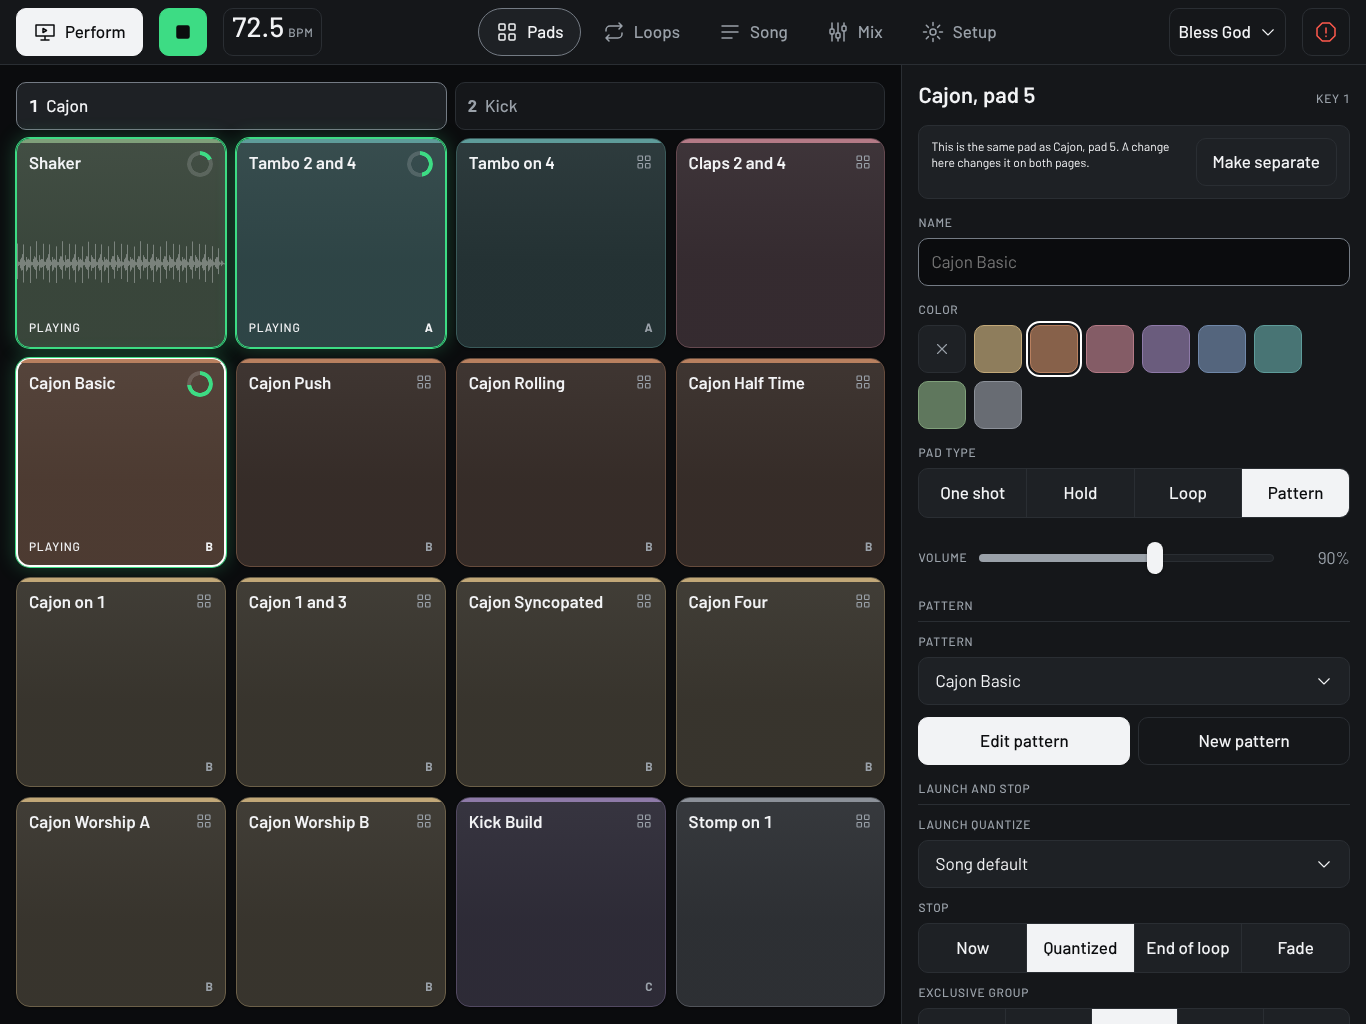
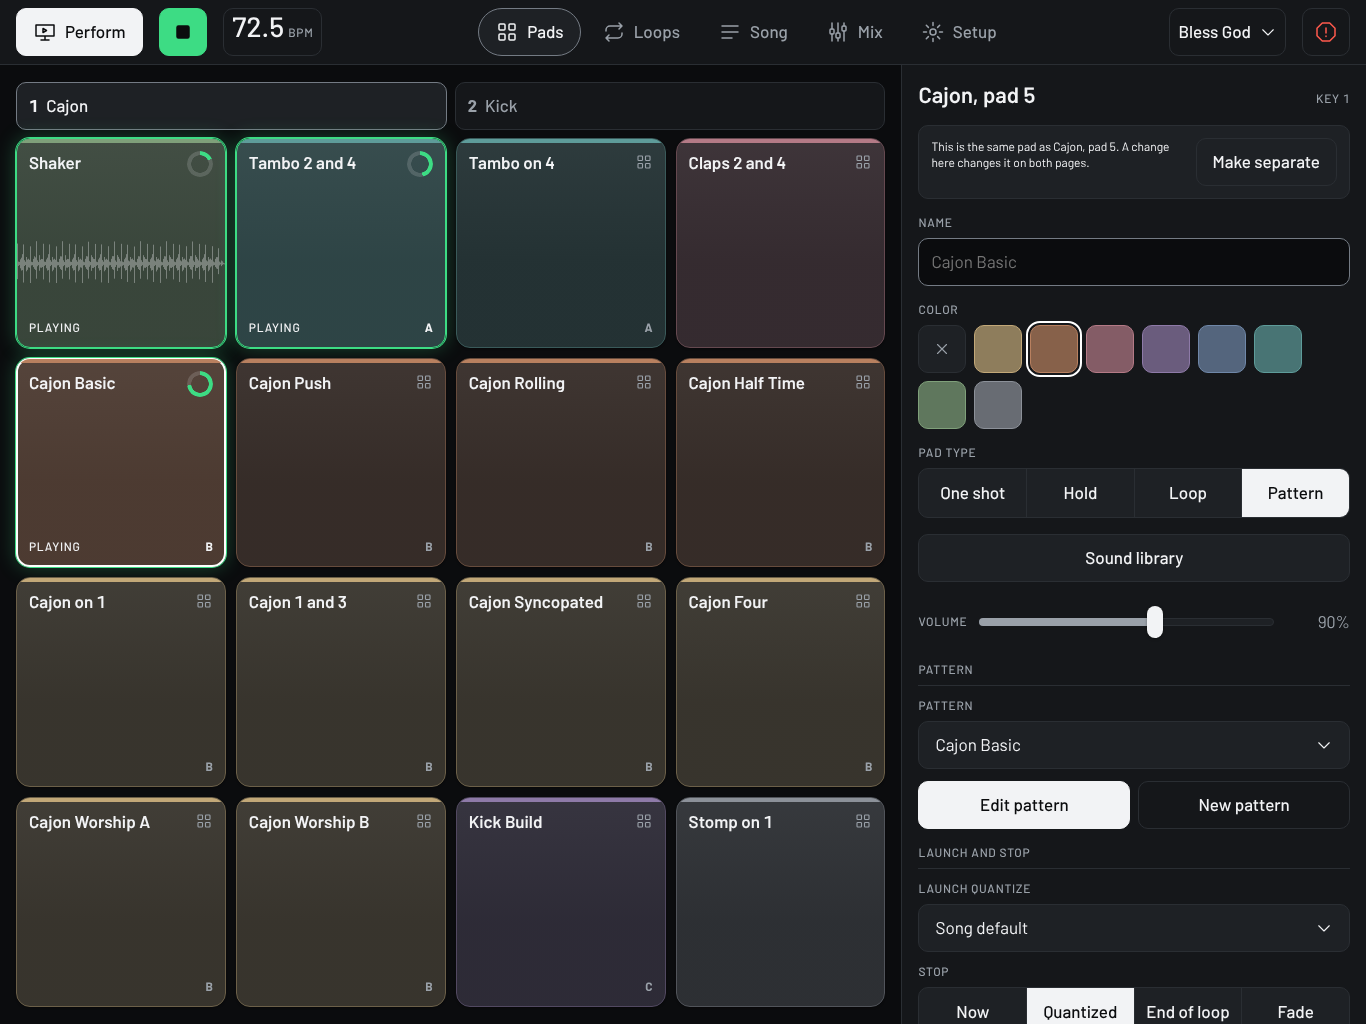
Docs and screenshots for the sound library and the count-in
Decisions 112 to 122, the hardware checklist for the library and the
count-in, and how the private sounds repository is used.

Claude-Session: https://claude.ai/code/session_01DwZbRpd19xrR4seYx22LVa

diff --git a/PROGRESS.md b/PROGRESS.md
@@ -7,7 +7,7 @@ Branch: `v3` (from `live-rig`). Never push to `main`. `live-rig` is the gig buil
 | Phase | What | State |
 | --- | --- | --- |
 | 1. Structure | Perform and Edit modes, five Edit destinations, scenes, layouts for iPad, folding phone and phone | Done on `v3`. Not yet played on a device. |
-| 2. Sound | Effects (reverb, delay, tape), sample library browser, the new sample content | Not started |
+| 2. Sound | Sample library and its browser, spoken count-in, private home for the sounds. Then effects (reverb, delay, tape) | Library, browser and count-in done on `v3`. Effects not started. |
 | 3. Ship | TestFlight internal build for iPad, iPhone and the folding iPhone | Not started. Needs Xcode. |
 | Track 0 | First compile of the iOS app on the Mac | Blocked: the Mac needs macOS 26.6 or newer and about 60 GB free for Xcode 27.1 |
 
@@ -19,6 +19,14 @@ Phase 1, in short (decisions 92 to 111):
 - Layout picked from the window size: iPad both ways, Split View, a folding phone opened both ways, phones both ways.
 - Pads light while sounding and show loop position as a ring. Barlow in every build.
 - Preview at `/v3/` once the `github-pages` environment allows the branch `v3`.
+
+Phase 2 so far (decisions 112 to 122):
+
+- A private repository, `Faith-Promise-Church/pad16-sounds`, is the home of every sound: the five kit folders and a library of 350 files in 15 categories (cajon, shaker, tambourine, hand drums, Latin percussion, kicks, snares, claps and snaps, hats and cymbals, toms, drum machines, lo-fi, transitions, clicks, the spoken count-in).
+- The build copies the sounds in when the sounds repository sits beside this one, so the iOS app carries them. The web version reads them with an access key entered once in Edit, Setup, Sounds, and keeps what it fetches.
+- Sound library browser on every pad and in every pattern track: categories, search, hear, use. Loops arrive with tempo and length.
+- Spoken count-in over the click, with a switch per song.
+- Still to do in this phase: effects, and the content rows still open (brush sounds and grooves, conga and bongo patterns, 6/8 shaker and tambourine, 808 snare, rim and cowbell, djembe bass, vinyl crackle).
 
 ## Earlier work (the live rig)
 
@@ -63,10 +71,13 @@ Phase 1, in short (decisions 92 to 111):
 
 ## Not verified here
 
-- Version 3 on any real device. Everything in it was built and checked in desktop Chrome at each device's point size. Touch feel, fader length under a thumb, legibility under stage light and the safe areas are for the iPad and the phone: see section 8 of `docs/HARDWARE_TEST.md`.
+- Version 3 on any real device. Everything in it was built and checked in desktop Chrome at each device's point size. Touch feel, fader length under a thumb, legibility under stage light and the safe areas are for the iPad and the phone: see section 9 of `docs/HARDWARE_TEST.md`.
 - The folding iPhone layout. Its sizes are Apple's published points; it needs the iOS build made with the SDK that knows the device.
 - The starter scenes are a guess (decision 98).
 - The iOS app has never been compiled. Xcode is not installed on the Mac. `HostClock.swift`, `MidiEngine.swift`, `BleReconnector.swift` and `CueClick.swift` type-check against the macOS SDK; `AudioSessionController.swift` and `Pad16NativePlugin.swift` could not be checked.
+- The library by ear. Every loop tempo, one shot name and pick was made by measurement (decision 122).
+- The spoken count-in on a real device, and in the iOS app when the click is sent to the cue route natively: the words go to the web click bus, which has not been checked against that route.
+- The access key against the real private repository. The browser tests use a stand-in that answers the way GitHub does.
 - Everything in `docs/HARDWARE_TEST.md`.
 - Signalsmith Stretch on a real iPad. It now runs in a Worker and is tested in Playwright's WebKit (the engine Safari uses), which is where it failed before. How it sounds on the shaker at 66 and 68 BPM (15 to 18 percent slower) is for ears.
 - How the 6/8 shaker pattern and the 6/8 cajon loops sound. They were built by measurement.
@@ -82,7 +93,9 @@ Phase 1, in short (decisions 92 to 111):
 ## Exact next step
 
 1. Allow the preview: GitHub, Settings, Environments, github-pages, Deployment branches and tags, add `v3`. Then re-run the "Deploy to GitHub Pages" run for `v3`. The preview is then at `/v3/`.
-2. Play a set from Perform on the iPad and work through section 8 of `docs/HARDWARE_TEST.md`. Change the starter scenes to the real ones.
-3. When it has been played: merge `v3` into `live-rig`.
-4. For the iOS build: update the Mac to macOS 26.6 or newer, free about 60 GB, install Xcode 27.1. Then in the Mac clone: `git checkout v3 && npm install && npm run build:ios`, open `ios/App/App.xcodeproj`, set the team, build.
-5. Phase 2 (sound) can start in parallel with 2 to 4.
+2. Make an access key for the sounds: GitHub, Settings, Developer settings, Fine-grained tokens. Resource owner Faith-Promise-Church, only the repository `pad16-sounds`, Contents read-only. Enter it on the iPad in Edit, Setup, Sounds.
+3. Listen through the library and say what is misnamed, at the wrong tempo, or not worth keeping.
+4. Play a set from Perform on the iPad and work through sections 9 and 10 of `docs/HARDWARE_TEST.md`. Change the starter scenes to the real ones.
+5. On the Mac, clone the sounds beside the app so local and iOS builds carry them: in `~/Documents/Claude Code Codebase/pad16`, `git clone https://github.com/Faith-Promise-Church/pad16-sounds`.
+6. For the iOS build: update the Mac to macOS 26.6 or newer, free about 60 GB, install Xcode 27.1. Then in the Mac clone: `git checkout v3 && npm install && npm run build:ios`, open `ios/App/App.xcodeproj`, set the team, build.
+7. Effects (reverb, delay, tape), then the open content rows.

diff --git a/DECISIONS.md b/DECISIONS.md
@@ -175,3 +175,14 @@ Branch `v3`, from `live-rig`. `live-rig` stays the gig build until this has been
 109. **Barlow in every build; DIN only on request.** Adobe Fonts does not license fonts for embedding in an app, and an app license for the DIN files in `fonts-private/` has not been confirmed. Barlow is the closest open face and is licensed for this (SIL OFL 1.1). The iOS build bundles DIN only when built with `PAD16_DIN=1`.
 110. **The preview is at `/v3/`,** published by the workflow file on this branch. A push to `main` or `live-rig` runs their workflow files, which do not know about `/v3/`, so it disappears from the site until `v3` is pushed again. `/`, `/next/` and `/v3/` are one site, so they share saved songs on a device; the gig build keeps scenes it does not understand when it saves.
 111. **Not done in this phase, on purpose:** spoken cues, the sample library browser, effects, the iOS compile. A fader that is 64 to 75 points long remains on a phone on its side and on a phone in a browser with the address bar showing.
+112. **Every sound lives in one private repository, `Faith-Promise-Church/pad16-sounds`.** The kits, the ambient pad sets, the click set and the new sample library. Most of the library is licensed for our own use (Splice, That Sound) and may not be published, and this repository and its site are public. One home for all of it is simpler than deciding file by file.
+113. **The app is built with the sounds inside it.** `npm run build` and `npm run build:ios` look for the sounds repository beside the app repository (`../pad16-sounds`, or wherever `PAD16_SOUNDS` points) and copy its `kits/` in. The iOS app then needs nothing set up on the device, which is what an internal tool for the campuses wants. `PAD16_SOUNDS=none` builds without them.
+114. **The web version reads the private repository with an access key.** The public site cannot carry the sounds, so it asks GitHub for each file with a key entered once in Edit, Setup, Sounds (a fine-grained token with read-only access to that one repository). The key stays on the device and is never part of an exported set. A file fetched this way is kept in the browser's own cache, so it downloads once and plays offline; "Keep every sound on this device" fetches the lot. Removing the key clears what was fetched with it.
+115. **A sound is always asked for by one path, `kits/...`.** The app looks beside itself first (bundled by the build, or still published with it), then asks the repository. Pads, pattern tracks, the click, the ambient pads, retries and offline saving all go through that one function (`src/engine/sounds.ts`), so nothing else had to learn where sounds come from.
+116. **The library is folders of files: `kits/Library/<Category>/<file>`.** A loop carries its tempo and length in its name (`Cajon Groove 3 100bpm 2bar.wav`); anything else is a one shot. `kits/Library/meta.json` holds what a file name cannot (a note, where the sound came from, the vowel onset of a spoken word). The indexer writes the list into `kits/index.json`. A library sound on a pad is an ordinary kit reference, so sets, scenes, patterns and export needed no new format.
+117. **One browser for the library, opened from where a sound is chosen:** the "Sound library" button on a pad, and "Browse the library" in a pattern track's sound list (one shots only there). Categories, a search over name, category and note, All, One shots or Loops, tap to hear, Use to load. A loop arrives with its tempo and bar count, so it follows the song at once.
+118. **Hearing a sound in the browser plays it on the bus it will use** (loops on Loops, one shots on Drums). There is no separate audition bus yet; in the room, the room hears it. Turn the bus down, or browse before the doors open.
+119. **The count-in is spoken.** With a count-in of 1 or 2 bars, the numbers are said over the click ("one, two, three, four"), on the click bus so they go wherever the click goes. Each word starts early by the time it takes to reach its vowel, so the vowel lands on the beat. In 6/8 it counts six when the eighth notes are slow enough to say, and the two pulses when they are not. Song, Tempo and click, "Say the numbers" switches it off for a song. Only the count-in is spoken: section names and other cue words were left out on purpose.
+120. **Shown names carry no leading zeroes.** `Shaker Loop 08` on disk is "Shaker Loop 8" in the app. Files keep their names so sorting on disk still works.
+121. **The kits published with the app stay where they are for now.** `kits/` in this repository still holds the five kit folders, so the web version plays with no key exactly as before. They come out of `v3` once the private path has been proven on the iPad. They would still be in this repository's history and on `main` and `live-rig`; rewriting history is a separate decision.
+122. **The library was built by measurement, not by ear.** Loop tempos were solved from the exact length of each take, one shots were cut at their attack and named from their spectrum, and the That Sound picks were chosen by folder and level. Names, tempos and which sounds deserve a place need a listen.

diff --git a/docs/HARDWARE_TEST.md b/docs/HARDWARE_TEST.md
@@ -84,7 +84,7 @@ Rig: iPad, Nord Stage 4, WIDI Master, wired USB interface (ESI Gigaport HD+ or F
 - [ ] **30-minute soak**: transport running, a loop and a pattern playing, pad on, play bass throughout. Dropouts or glitches: ____. Diagnostics "worst late tick": ____ ms. Battery used: ____ percent. iPad warm?
 - [ ] Turn on Airplane Mode (then Bluetooth back on): everything still works with no network.
 
-## 8. Perform, scenes and the screen sizes
+## 9. Perform, scenes and the screen sizes
 
 - [ ] The app opens in Perform. Play one whole song without touching Edit: start, tap tempo, tempo up and down by 1, click, pads, Ambient and Bass on and off and their faders.
 - [ ] Scenes at stage tempo: press Chorus mid-bar. The button blinks amber and says Next bar; on the bar line the Chorus pads start together and the others stop. No flam between pads, no gap.
@@ -96,3 +96,18 @@ Rig: iPad, Nord Stage 4, WIDI Master, wired USB interface (ESI Gigaport HD+ or F
 - [ ] iPad in portrait and landscape, and Split View at half width: nothing is cut off and the pads stay square.
 - [ ] iPhone upright and on its side: every control in Perform can be hit with a thumb.
 - [ ] Read the Perform screen from a metre away under stage light: tempo, bar and beat, the scene that is on.
+
+## 10. Sound library and the spoken count-in
+
+- [ ] Edit, Setup, Sounds: paste the access key and press Connect. It says Connected and how many sounds are in the library.
+- [ ] A wrong or expired key says so, and the kits published with the app still play.
+- [ ] Edit, Pads, pick a pad, Sound library. Scroll the categories, search for "shaker", tap a row to hear it, tap again to stop it.
+- [ ] Use a loop: it lands on the pad with its tempo, and follows the song when the tempo changes.
+- [ ] Use a one shot in a pattern track (Edit pattern, tap the track name, Browse the library). The pattern plays it.
+- [ ] Keep every sound on this device, then switch to airplane mode and reload: the library pads still play.
+- [ ] By ear, per category: which names are wrong, which loops are at the wrong tempo or start late, which sounds are not worth keeping: ________
+- [ ] Count-in of 1 bar at 70, 100 and 140: the numbers sit on the click, not ahead of it or behind it. Note any word that is early or late: ________
+- [ ] Count-in in 6/8 slow (counts six) and fast (counts the two pulses).
+- [ ] The count goes where the click goes (in-ears, not the room) in Split and Multi-out.
+- [ ] "Say the numbers" off: click only.
+

diff --git a/README.md b/README.md
@@ -74,6 +74,16 @@ kits/
 
 See [SAMPLES.md](SAMPLES.md) for the full convention, the prep script, pad sets and a recording guide.
 
+### The sound library and the private sounds repository
+
+The sample library (and, in time, every kit) lives in a separate private repository, `Faith-Promise-Church/pad16-sounds`, because most of it is licensed for our own use and may not be published. This repository and its site are public.
+
+- **iOS and local builds.** Clone the sounds repository beside this one (`../pad16-sounds`), or point `PAD16_SOUNDS` at it. `npm run dev`, `npm run build` and `npm run build:ios` then include the sounds, and the app needs nothing set up on the device. `PAD16_SOUNDS=none` builds without them.
+- **The web version.** Enter an access key once in Edit, Setup, Sounds: a GitHub fine-grained token for that one repository with Contents set to read-only. The key stays on the device. Sounds are fetched as they are used and kept for offline play.
+- **Adding to the library.** Put files in `kits/Library/<Category>/` in the sounds repository. A loop is named with its tempo and length (`Shaker Loop 8 92bpm 4bar.wav`); anything else is a one shot. Run `npm run kits` here to rewrite its index, then commit and push there.
+
+In the app: the "Sound library" button on a pad (Edit, Pads), or "Browse the library" in a pattern track's sound list.
+
 ## Develop
 
 Needs Node 22.18 or newer.
@@ -84,7 +94,7 @@ npm run dev          # http://localhost:5173
 npm test             # unit tests (Vitest)
 npm run test:e2e     # offline render tests and smoke tests (Playwright, needs Chrome or `npx playwright install chromium`)
 npm run test:all     # typecheck, unit tests, browser tests
-npm run build        # indexes kits and builds dist/
+npm run build        # indexes kits and builds dist/ (with the private sounds, when ../pad16-sounds is there)
 ```
 
 Layout: `src/engine/` (clock, scheduler, transport, loops, stretch, patterns, click, sub synth, tonic pad, mixer), `src/midi/`, `src/store/`, `src/ui/`, `src/native/` (JavaScript side of the iOS plugin), `plugins/pad16-native/` (Swift), `ios/` (Xcode project), `tests/`.

diff --git a/docs/DESIGN.md b/docs/DESIGN.md
@@ -156,6 +156,11 @@ Each view, dark then daylight. Captured by `scripts/make-screens.mjs` from the b
 | Folding phone open, portrait | ![](screens/edit-pads-fold-portrait-dark.png) | ![](screens/edit-pads-fold-portrait-light.png) |
 | Phone | ![](screens/edit-pads-phone-dark.png) | ![](screens/edit-pads-phone-light.png) |
 | Pattern sequencer | ![](screens/sequencer-landscape-dark.png) | ![](screens/sequencer-landscape-light.png) |
+| Sound library, iPad landscape | ![](screens/library-landscape-dark.png) | ![](screens/library-landscape-light.png) |
+| Sound library, iPad portrait | ![](screens/library-portrait-dark.png) | ![](screens/library-portrait-light.png) |
+| Sound library, phone | ![](screens/library-phone-dark.png) | ![](screens/library-phone-light.png) |
+
+The sound library is one sheet, opened from wherever a sound is being chosen. Categories run in a row that scrolls sideways, each with its count. A row is two targets: the left part plays the sound (and stops it), the button on the right loads it. Loops are marked and show their tempo and length; one shots show their length. It remembers the category and search it was last left on.
 
 ### Edit, Loops
 
@@ -190,6 +195,7 @@ Each view, dark then daylight. Captured by `scripts/make-screens.mjs` from the b
 | Section | Dark | Daylight |
 | --- | --- | --- |
 | Audio | ![](screens/setup-audio-landscape-dark.png) | ![](screens/setup-audio-landscape-light.png) |
+| Sounds (the web version, before a key is entered) | ![](screens/setup-sounds-landscape-dark.png) | ![](screens/setup-sounds-landscape-light.png) |
 | MIDI | ![](screens/setup-midi-landscape-dark.png) | ![](screens/setup-midi-landscape-light.png) |
 | Display | ![](screens/setup-display-landscape-dark.png) | ![](screens/setup-display-landscape-light.png) |
 | Backup | ![](screens/setup-backup-landscape-dark.png) | ![](screens/setup-backup-landscape-light.png) |
